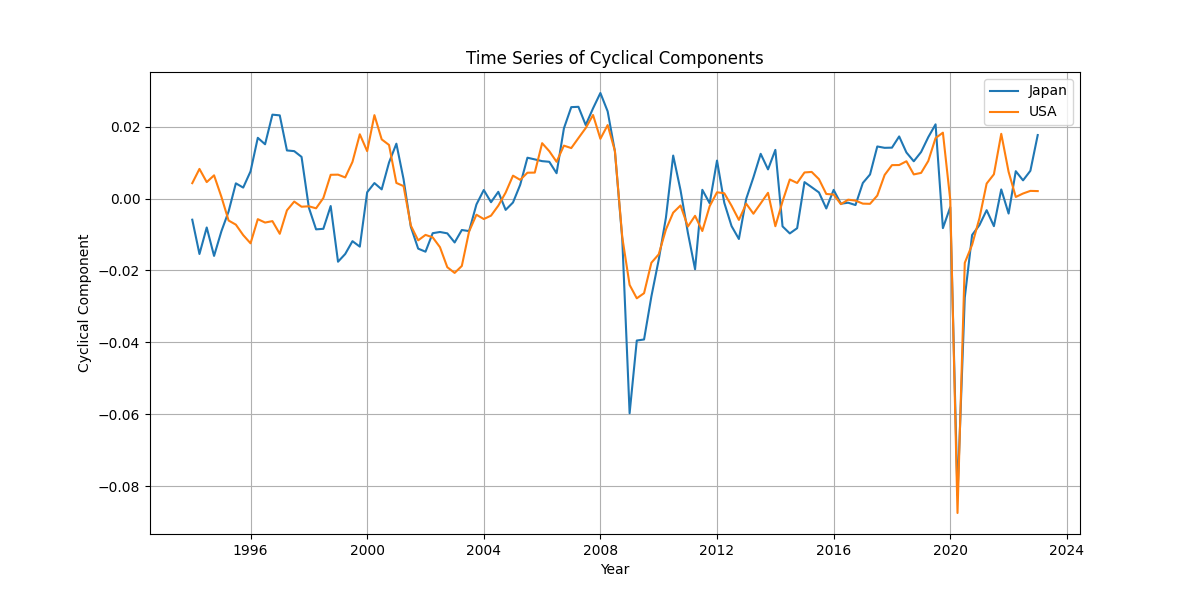
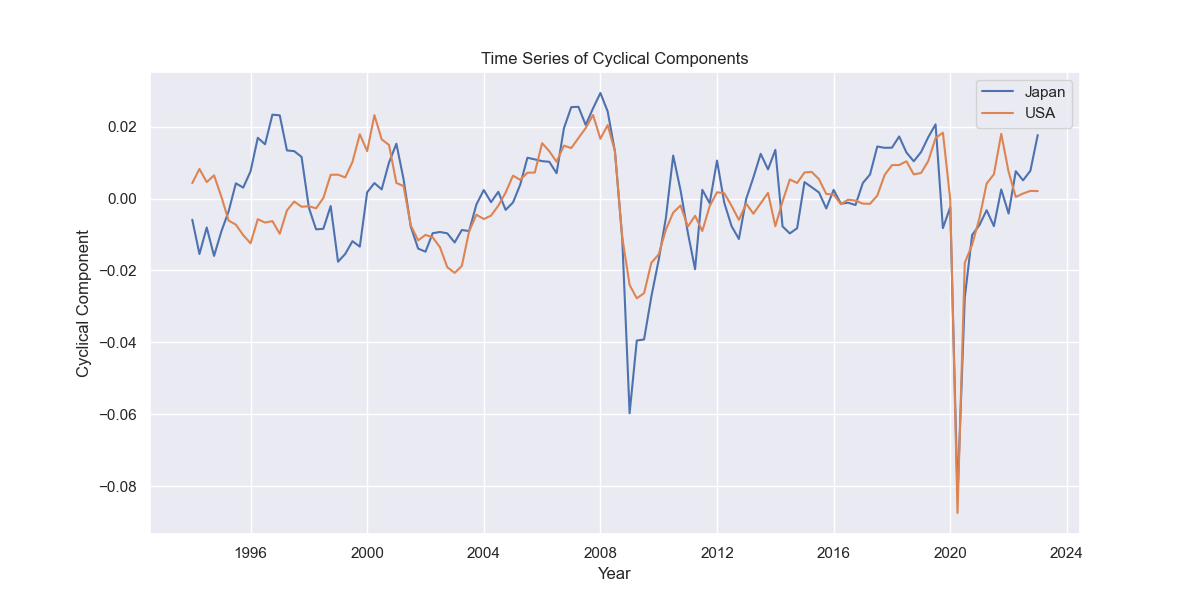
commit

diff --git a/myHPfilter_assignment.py b/myHPfilter_assignment.py
@@ -3,6 +3,8 @@ import pandas_datareader.data as web
 import matplotlib.pyplot as plt
 import statsmodels.api as sm
 import numpy as np
+import seaborn as sns
+sns.set()
 
 # Set start and end dates
 start_date = '1994-01-01'
